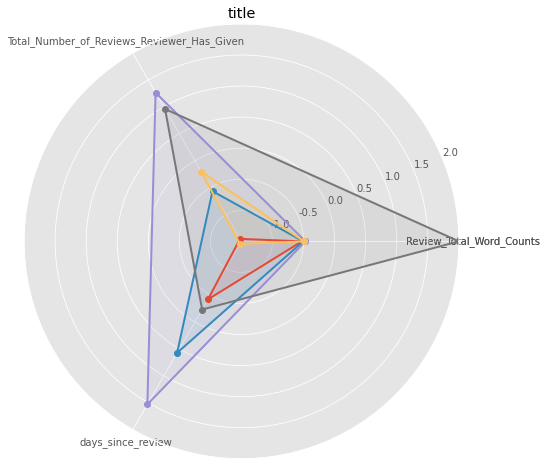
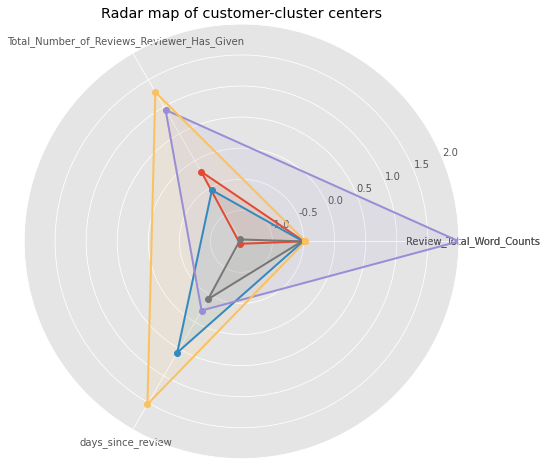
5

diff --git a/_posts/2021-12-19-hotel-clustering.md b/_posts/2021-12-19-hotel-clustering.md
@@ -1,0 +1,36 @@
+---
+title: "Classify hotels based on their ratings and reviews"
+date: 2021-12-19
+published: true
+categories:
+  - blog
+tags:
+  - Github Page
+tags: [dataviz, altair, hvplot, holoviews]
+excerpt: "Embedding interactive charts on static pages using Jekyll."
+hv-loader:
+  hv-chart-1: ["charts/polarity_dist.html", "280", "600"] # second argument is the height
+  hv-chart-2: ["charts/subjectivity_dist.html", "280", "600"] # second argument is the height
+toc: true
+toc_sticky: true
+---
+
+## - Clustering based on DBSCAN
+
+### Mean statistics for clusters
+
++-------------------+-------------------+-----------------------------+----------------------------------------+
+| **Cluster label** | **Average Score** | **Total Number of Reviews** | **Subjectivity of Integrated Reviews** |
++:=================:+:=================:+:===========================:+:======================================:+
+| -1                | 8.376015          | 1719.720787                 | 0.502717                               |
++-------------------+-------------------+-----------------------------+----------------------------------------+
+| 0                 | 8.663081          | 663.550122                  | 0.397988                               |
++-------------------+-------------------+-----------------------------+----------------------------------------+
+| 1                 | 8.304951          | 1122.517570                 | 0.586961                               |
++-------------------+-------------------+-----------------------------+----------------------------------------+
+| 2                 | 8.785000          | 965.425000                  | 0.600886                               |
++-------------------+-------------------+-----------------------------+----------------------------------------+
+
+### Relationships between scores, subjectivity, and number of reviews
+
+### Relationships between scores, subjectivity, and number of reviews
